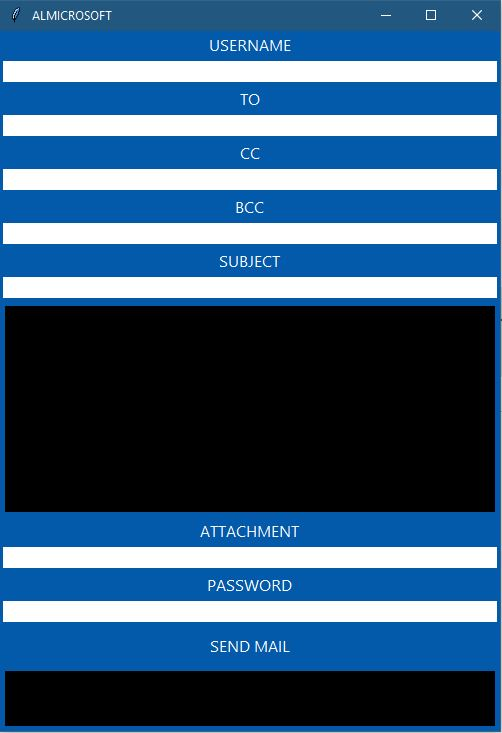
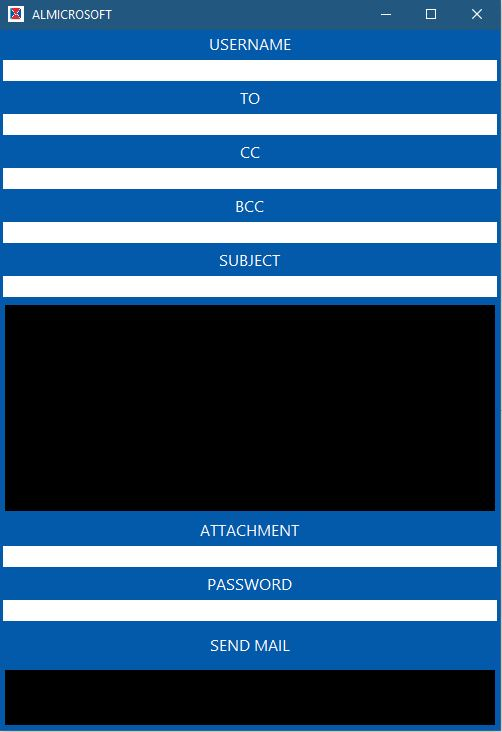
AlMail

diff --git a/AlMail.py b/AlMail.py
@@ -25,7 +25,8 @@ class AlMail:
             root.geometry("500x700+1410+315")
             root.config(bg="#035aaa")
             color='#035aaa'      
-
+        root.iconbitmap(os.path.join(cwd+'\\UI\\icons', 'almail.ico'))
+        
         def speak(audio):
             engine = pyttsx3.init('sapi5')
             voices = engine.getProperty('voices')
